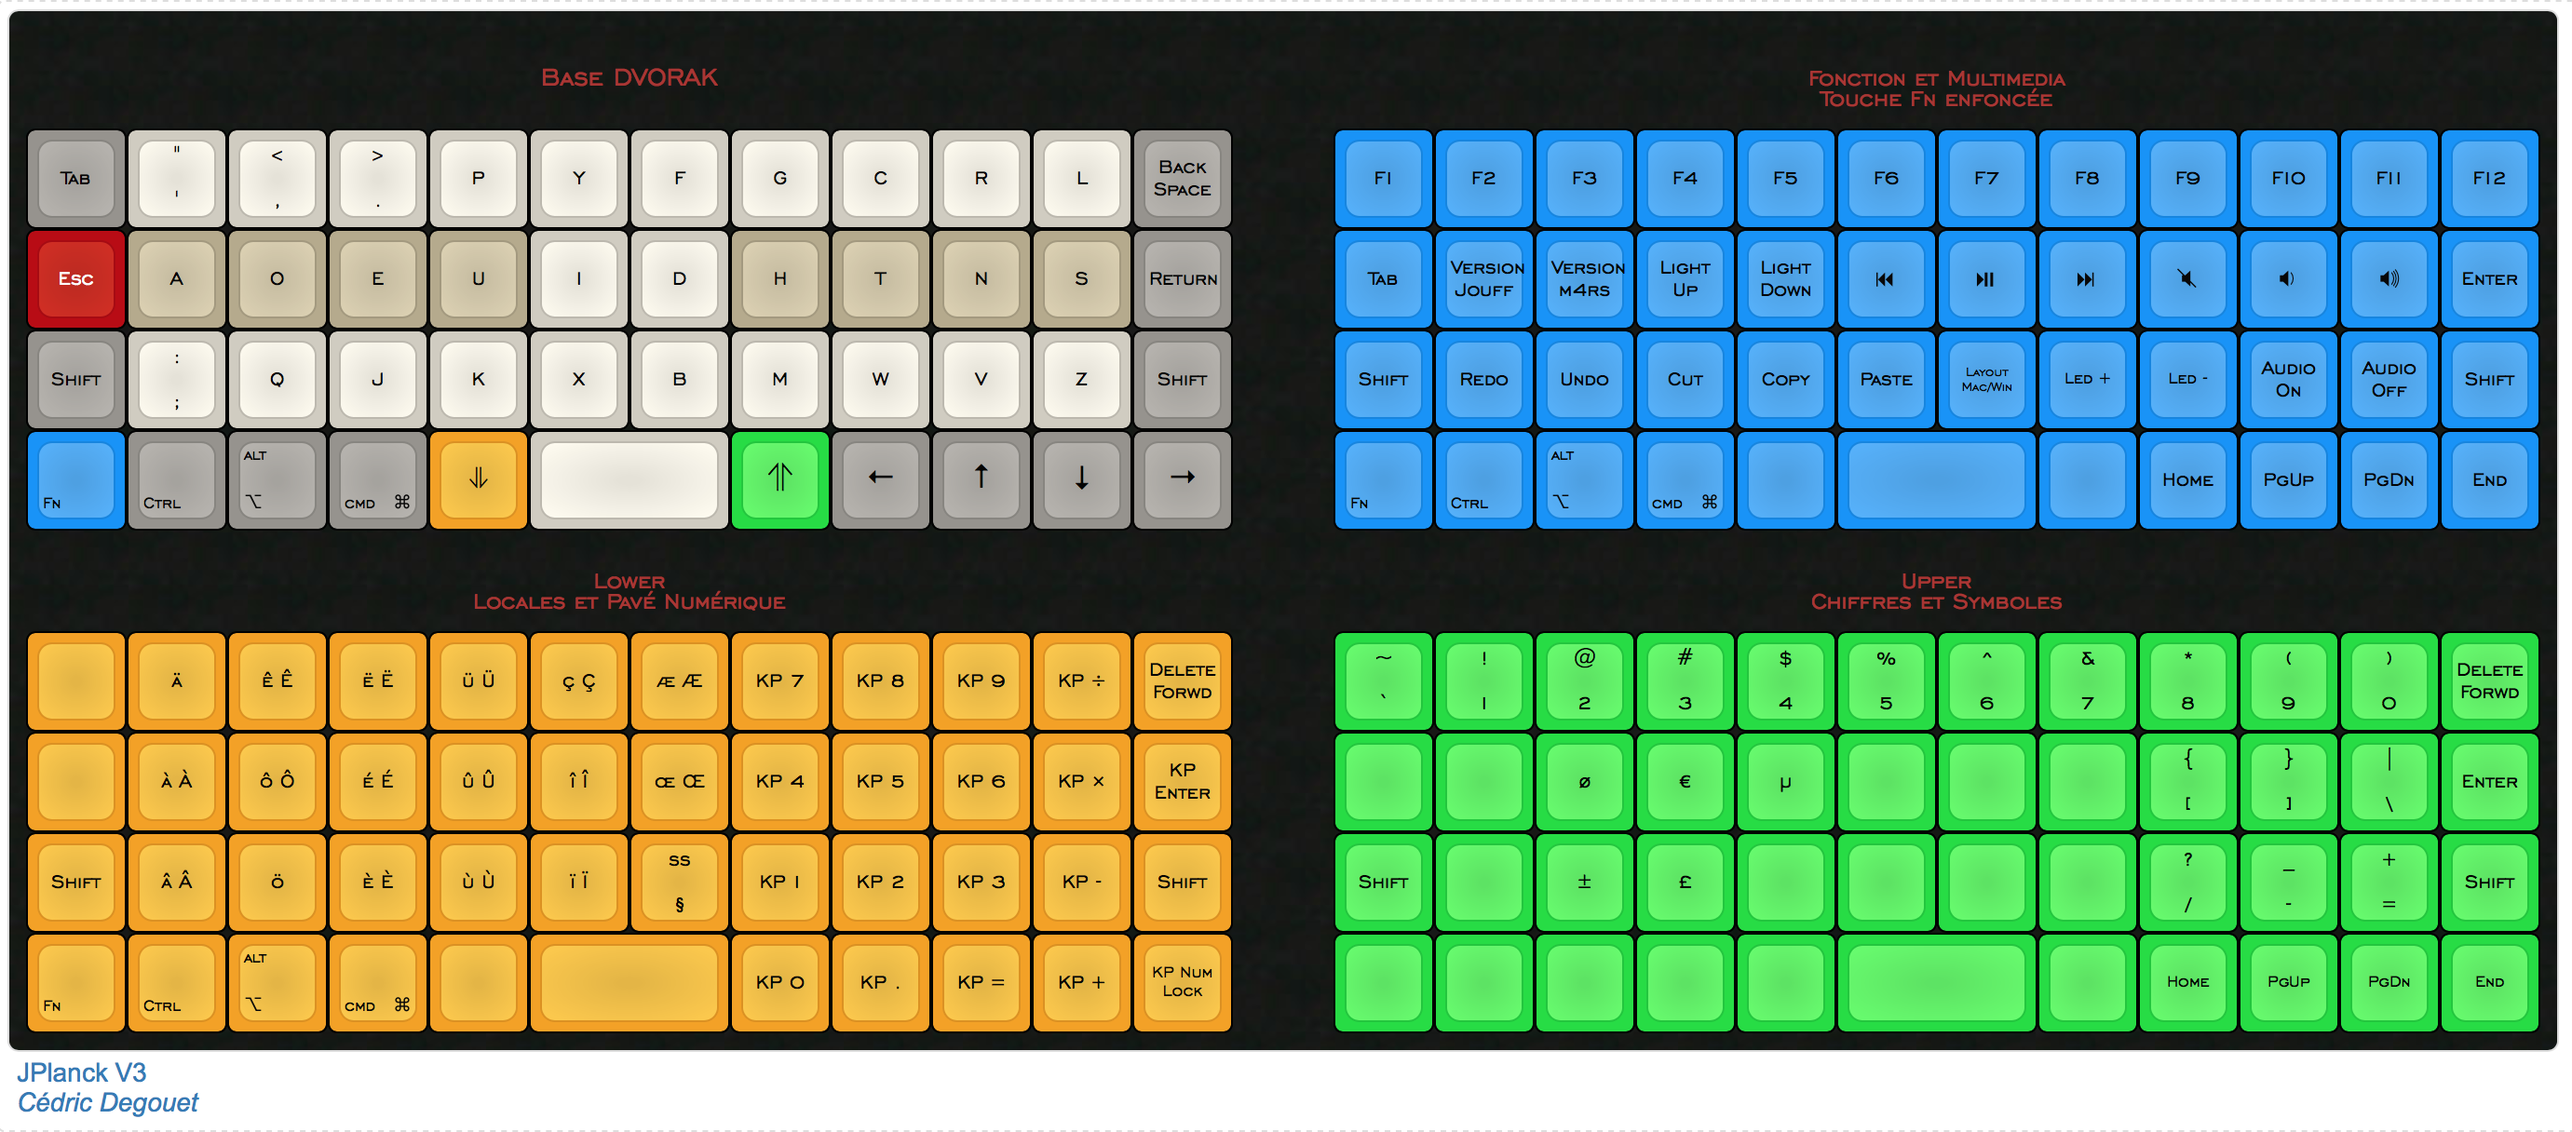
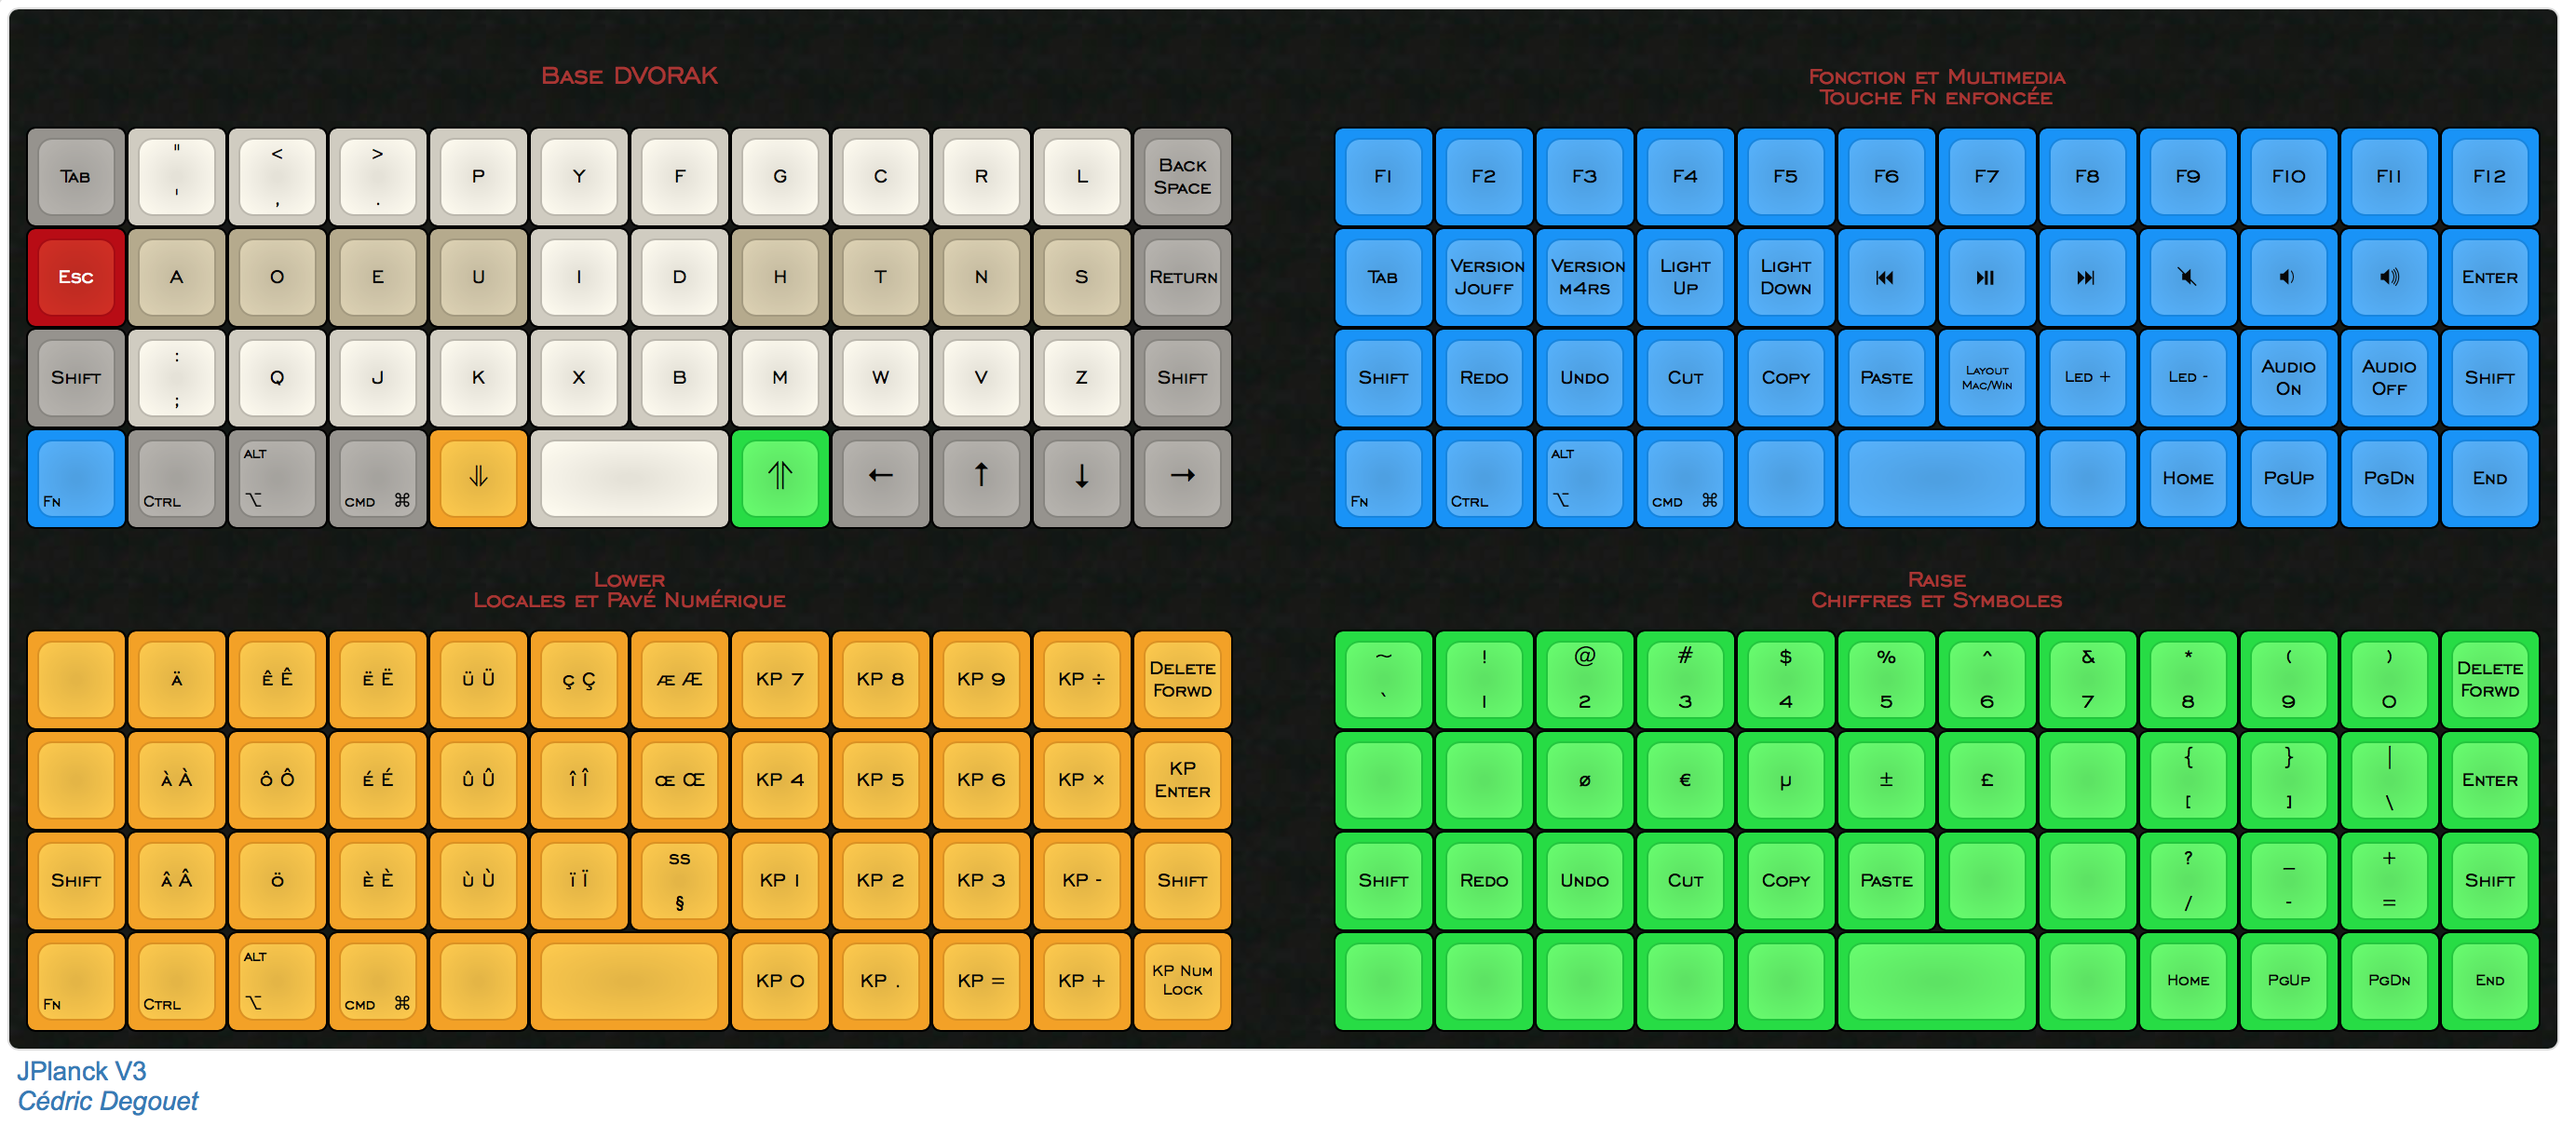
Edition Raise jouff

diff --git a/keyboards/planck/keymaps/m4rjou/keymap.c b/keyboards/planck/keymaps/m4rjou/keymap.c
@@ -236,18 +236,18 @@ const uint16_t PROGMEM keymaps[][MATRIX_ROWS][MATRIX_COLS] = {
  * ┌──────┬──────┬──────┬──────┬──────┬──────╥──────┬──────┬──────┬──────┬──────┬──────┐
  * │   `  │   1  │   2  │   3  │   4  │   5  ║   6  │   7  │   8  │   9  │   0  │ Del  │
  * ├──────┼──────┼──────┼──────┼──────┼──────╫──────┼──────┼──────┼──────┼──────┼──────┤
- * │   ~  │   !  │   @  │   #  │   $  │   %  ║   ^  │   &  │  [   │   ]  │ │ \  │Enter │
+ * │      │      │   ø  │   €  │   µ  │      ║      │      │  [   │   ]  │ │ \  │Enter │
  * ├──────┼──────┼──────┼──────┼───┄──┼──────╫──────┼───┄──┼──────┼──────┼──────┼──────┤
- * │      │ Undo │ Cut  │ Copy │ Paste│      ║      │ISO ~ │ISO │ │      │      │Enter │
+ * │      │ Undo │ Cut  │ Copy │ Paste│      ║      │      │      │   -  │   =  │Shift │
  * ├──────┼──────┼──────┼──────┼──────┼──────╨──────┼──────┼──────┼──────┼──────┼──────┤
- * │      │      │      │      │      │             │      │ Next │ Vol- │ Vol+ │ Play │
+ * │      │      │      │      │      │             │      │ Home │ PgUp │ PgDn │ End  │
  * └──────┴──────┴──────┴──────┴──────┴─────────────┴──────┴──────┴──────┴──────┴──────┘
  */
 [_RAISE_J] = {
   {KC_GRV,  KC_1,    KC_2,    KC_3,    KC_4,    KC_5,    KC_6,    KC_7,    KC_8,    KC_9,    KC_0,    KC_DEL},
-  {_______, ______, ______,   ______, ________, _______, _______, _______,    KC_LBRC,    KC_RBRC, LC_BSLS, KC_ENT},
-  {_______, W_UNDO,  W_CUT,   W_COPY,  W_PASTE, _______, _______, S(KC_NUHS), S(KC_NUBS), KC_HOME, KC_END,  _______},
-  {_______, _______, _______, _______, _______, _______, _______, _______,    KC_MNXT,    KC_VOLD, KC_VOLU, KC_MPLY}
+  {_______, ______, ______,   ______, ________, _______, _______, _______, KC_LBRC, KC_RBRC, LC_BSLS, KC_ENT},
+  {_______, W_UNDO,  W_CUT,   W_COPY,  W_PASTE, _______, _______, _______, ______,  KC_MINS, KC_EQL, KC_RSFT},
+  {_______, _______, _______, _______, _______, _______, _______, _______, KC_HOME, KC_PGUP, KC_PGDN, KC_MPLY}
 },
 
 /* Space Fn jouff
